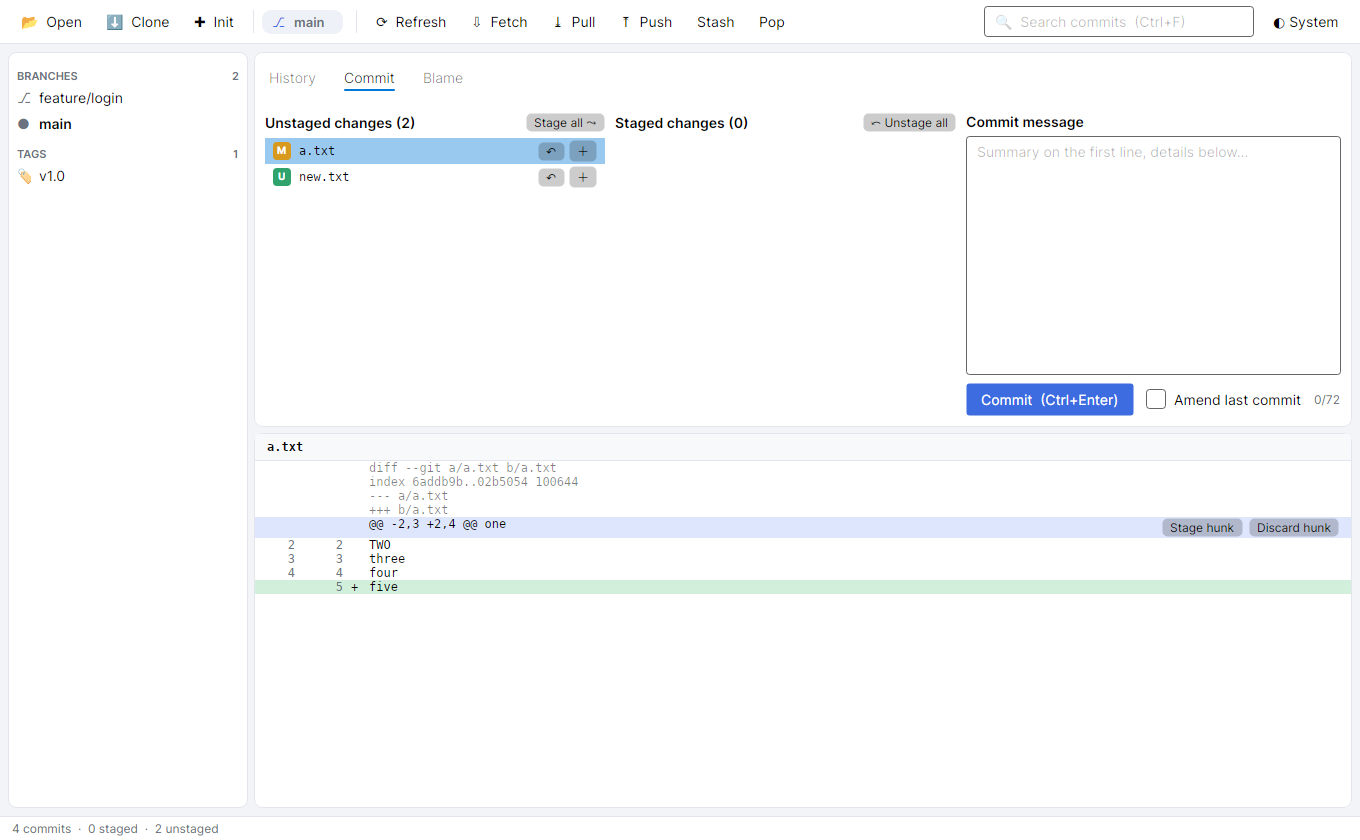
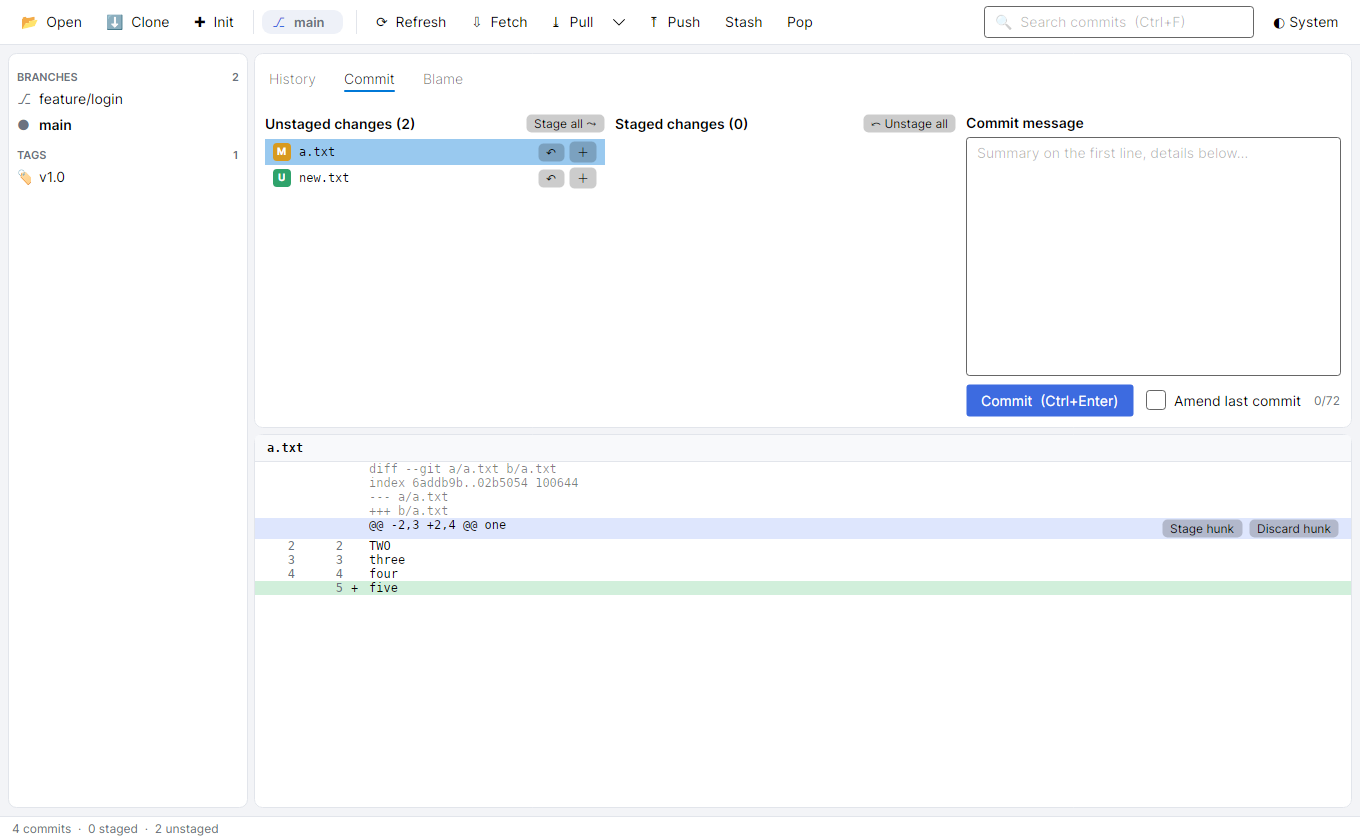
feat(app): merge modes, rebase onto a branch and pull (rebase) from the UI
Sidebar context menu gains no-ff, squash and rebase (with confirmation); Pull becomes a split button. HOWTO and screenshots updated.

diff --git a/tests/GitCross.App.UiTests/WindowRenderTests.cs b/tests/GitCross.App.UiTests/WindowRenderTests.cs
@@ -248,6 +248,52 @@ public class WindowRenderTests
         Assert.Contains(vm.Items, i => i.Subject.StartsWith("Merge"));
     }
 
+    private static string NewRepo()
+    {
+        var repo = Path.Combine(Path.GetTempPath(), "gxc-ui-" + Guid.NewGuid().ToString("N")[..8]);
+        Directory.CreateDirectory(repo);
+        Git(repo, "init -q -b main"); Git(repo, "config user.name Ada"); Git(repo, "config user.email a@x");
+        File.WriteAllText(Path.Combine(repo, "f.txt"), "base\n"); Git(repo, "add ."); Git(repo, "commit -qm base");
+        return repo;
+    }
+
+    [AvaloniaFact]
+    public async Task Squash_merge_leaves_changes_staged_and_opens_commit_tab()
+    {
+        var repo = NewRepo();
+        Git(repo, "checkout -qb topic"); File.WriteAllText(Path.Combine(repo, "t.txt"), "t"); Git(repo, "add ."); Git(repo, "commit -qm topic");
+        Git(repo, "checkout -q main");
+        var vm = new MainViewModel(new SettingsStore(Path.Combine(repo, "..", "gxc-s-" + Guid.NewGuid() + ".json")));
+        await vm.OpenAsync(repo);
+
+        await vm.MergeWithAsync(vm.Sidebar.First(e => e.Ref?.Name == "topic").Ref!, Core.Git.MergeMode.Squash);
+        Assert.Equal(1, vm.SelectedTab);
+        Assert.Contains(vm.Staged, f => f.Path == "t.txt");
+        Assert.Contains("squash", vm.StatusText, StringComparison.OrdinalIgnoreCase);
+        Assert.False(vm.HasOperation);
+    }
+
+    [AvaloniaFact]
+    public async Task Rebase_conflict_shows_rebase_banner_then_continues()
+    {
+        var repo = NewRepo();
+        Git(repo, "checkout -qb topic"); File.WriteAllText(Path.Combine(repo, "f.txt"), "topic\n"); Git(repo, "commit -qam topic");
+        Git(repo, "checkout -q main"); File.WriteAllText(Path.Combine(repo, "f.txt"), "main\n"); Git(repo, "commit -qam main");
+        Git(repo, "checkout -q topic");
+        var vm = new MainViewModel(new SettingsStore(Path.Combine(repo, "..", "gxc-s-" + Guid.NewGuid() + ".json")));
+        await vm.OpenAsync(repo);
+
+        await vm.RebaseOntoAsync(vm.Sidebar.First(e => e.Ref?.Name == "main").Ref!);
+        Assert.Equal(Core.Models.GitOperation.Rebase, vm.Operation);
+        Assert.Contains("Rebase", vm.OperationText);
+        Assert.Equal(1, vm.ConflictCount);
+
+        await vm.ResolveAsync(vm.Unstaged.Single(), ours: false);
+        await vm.ContinueOperationCommand.ExecuteAsync(null);
+        Assert.False(vm.HasOperation);
+        Assert.Equal("topic", vm.Items.First(i => !i.IsWorkingDir).Subject);
+    }
+
     private static void Git(string dir, string args)
     {
         var psi = new ProcessStartInfo("git", args) { WorkingDirectory = dir, RedirectStandardError = true, RedirectStandardOutput = true };

diff --git a/src/GitCross.App/Views/MainWindow.axaml.cs b/src/GitCross.App/Views/MainWindow.axaml.cs
@@ -93,7 +93,29 @@ public partial class MainWindow : Window
 
     private void OnSidebarCheckout(object? sender, RoutedEventArgs e) => _vm.CheckoutRefCommand.Execute(RefOf(sender));
 
-    private void OnSidebarMerge(object? sender, RoutedEventArgs e) => _vm.MergeRefCommand.Execute(RefOf(sender));
+    private async void OnSidebarMerge(object? sender, RoutedEventArgs e)
+    {
+        if (RefOf(sender) is { } r) { await _vm.MergeWithAsync(r, MergeMode.Default); }
+    }
+
+    private async void OnSidebarMergeNoFf(object? sender, RoutedEventArgs e)
+    {
+        if (RefOf(sender) is { } r) { await _vm.MergeWithAsync(r, MergeMode.NoFastForward); }
+    }
+
+    private async void OnSidebarMergeSquash(object? sender, RoutedEventArgs e)
+    {
+        if (RefOf(sender) is { } r) { await _vm.MergeWithAsync(r, MergeMode.Squash); }
+    }
+
+    private async void OnSidebarRebase(object? sender, RoutedEventArgs e)
+    {
+        if (RefOf(sender) is { } r
+            && await PromptWindow.AskAsync(this, "Rebase", $"Rebase '{_vm.CurrentBranch}' onto '{r.Name}'? This rewrites the commits of the current branch.", "Rebase") is not null)
+        {
+            await _vm.RebaseOntoAsync(r);
+        }
+    }
 
     private void OnSidebarDelete(object? sender, RoutedEventArgs e) => _vm.DeleteBranchCommand.Execute(RefOf(sender));
 

diff --git a/src/GitCross.App/ViewModels/MainViewModel.cs b/src/GitCross.App/ViewModels/MainViewModel.cs
@@ -691,6 +691,22 @@ public partial class MainViewModel : ObservableObject
 
     [RelayCommand] private Task FetchAsync() => Mutate(() => _repo!.FetchAsync(), true);
 
+    [RelayCommand] private Task PullRebaseAsync() => Mutate(() => _repo!.PullAsync(rebase: true), true);
+
+    public async Task MergeWithAsync(GitRef r, MergeMode mode)
+    {
+        await Mutate(() => _repo!.MergeAsync(r.Name, mode), r);
+        if (mode == MergeMode.Squash && !IsError && Staged.Count > 0)
+        {
+            SelectedTab = 1;
+            StatusText = $"Squash merge of {r.Name} is staged. Write a commit message and commit.";
+        }
+    }
+
+    public Task RebaseOntoAsync(GitRef r) => Mutate(() => _repo!.RebaseAsync(r.Name), r);
+
+    public string CurrentBranch => BranchText;
+
     [RelayCommand] private Task PullAsync() => Mutate(() => _repo!.PullAsync(), true);
 
     [RelayCommand] private Task PushAsync() => Mutate(() => _repo!.PushAsync(), true);

diff --git a/docs/HOWTO.md b/docs/HOWTO.md
@@ -92,7 +92,7 @@ Drag the thin separators between areas to resize them. The window refreshes itse
 | **Branch pill** | Shows the current branch (or "detached HEAD") and, when the branch tracks a remote, `↑ahead ↓behind` commit counts. |
 | **Refresh** (**F5**) | Reload history, refs and working tree. |
 | **Fetch** | `git fetch --all --prune`. |
-| **Pull** | `git pull` (merge). |
+| **Pull** | `git pull` (merge). Click the **▾** arrow next to it for **Pull (merge)** or **Pull (rebase)**, which replays your local commits on top of the fetched ones instead of creating a merge commit. |
 | **Push** | `git push`. |
 | **Stash** | Stash all changes including untracked files. Does nothing when the working tree is clean. |
 | **Pop** | Apply and remove the newest stash. |
@@ -117,7 +117,7 @@ Interactions:
 * **Single click** – selects the ref and scrolls/selects the matching commit in History. Nothing is changed in your repository by a single click.
 * **Double-click** a branch or tag – checks it out. Double-clicking a remote branch such as `origin/feature` creates a local tracking branch `feature` (git's standard behavior).
 * **Right-click** – context menu:
-  * Branches/remotes/tags: **Checkout**, **Merge into current branch**, **Delete branch** (uses the safe `git branch -d`; unmerged or current branches are refused with a message).
+  * Branches/remotes/tags: **Checkout**, the merge and rebase entries described in [section 10](#10-branches-and-tags), and **Delete branch** (uses the safe `git branch -d`; unmerged or current branches are refused with a message).
   * Stashes: **Apply stash (keep)**, **Pop stash (apply and drop)**, **Drop stash** (asks for confirmation).
 
 ## 6. History and the commit graph
@@ -223,7 +223,10 @@ If there is nothing staged or the message is empty, the status bar says so and n
 |---|---|
 | Create a branch at a commit and switch to it | Select the commit → type a name → **Branch here**. |
 | Switch branch | Double-click it in the sidebar, or right-click → **Checkout**. |
-| Merge a branch into the current one | Right-click the branch → **Merge into current branch**. If it conflicts, see [section 15](#15-resolving-conflicts). |
+| Merge a branch into the current one | Right-click the branch → **Merge into current branch**. Git fast-forwards when it can, otherwise creates a merge commit. If it conflicts, see [section 15](#15-resolving-conflicts). |
+| Always record a merge commit | **Merge (always create merge commit)** — `--no-ff`; keeps the branch visible in the graph even when a fast-forward was possible. |
+| Combine a branch into one commit | **Merge (squash into staged changes)** — brings the branch's changes into your index without committing and opens the **Commit** tab; write a message and commit. No merge relationship is recorded. |
+| Put your branch on top of another | **Rebase current branch onto this** — replays the *current* branch's commits after the selected branch, giving a linear history. Asks for confirmation because it rewrites the current branch's commits (avoid on branches you already pushed and others use). Conflicts show the banner of section 15; **Continue** moves to the next commit. |
 | Delete a branch | Right-click → **Delete branch** (safe delete only; the current branch cannot be deleted). |
 | Create a tag | Right-click a commit → **Create tag here…**. |
 | Check out a tag | Double-click it (detached HEAD). |
@@ -233,7 +236,7 @@ If a checkout would overwrite uncommitted changes, git refuses and the message a
 ## 11. Fetch, pull and push
 
 * **Fetch** downloads new commits and prunes deleted remote branches without changing your files.
-* **Pull** fetches and merges the upstream into the current branch.
+* **Pull** fetches and merges the upstream into the current branch. Use the **▾** menu → **Pull (rebase)** to rebase your local commits onto the upstream instead.
 * **Push** uploads the current branch.
 
 The branch pill's `↑N ↓M` shows how many commits you are ahead/behind the upstream. Operations never prompt for passwords in the terminal; configure SSH keys or a git credential helper. If a pull conflicts, the conflict banner appears (section 15). Errors from git (rejected push, no upstream, authentication) are shown in the status bar.
@@ -289,7 +292,7 @@ When a merge, pull, cherry-pick, revert or rebase stops because of conflicting c
 
 1. A yellow banner appears: **"Merge in progress — 1 conflicted file to resolve"**, with **Continue** and **Abort**. The status bar explains the next step.
 2. The **Commit** tab opens. Conflicted files have a pink **!** badge in *Unstaged changes*.
-3. Select a conflicted file: the lower panel shows the file with its conflict markers. **Red = ours** (your current branch), **green = theirs** (the incoming change); blue lines are the `<<<<<<<`, `=======`, `>>>>>>>` markers.
+3. Select a conflicted file: the lower panel shows the file with its conflict markers. **Red = ours** (your current branch), **green = theirs** (the incoming change). *During a rebase git swaps the two: "ours" is the branch you are rebasing onto and "theirs" is your own commit being replayed.*; blue lines are the `<<<<<<<`, `=======`, `>>>>>>>` markers.
 4. Resolve each file, either:
    * right-click → **Accept ours (current branch)** or **Accept theirs (incoming)** – takes that whole version and stages it; or
    * right-click → **Open in default editor**, edit the file to the result you want (remove the markers), save, then click **＋** to mark it resolved.
@@ -337,6 +340,7 @@ The app asks before anything that can lose work:
 * Hard reset
 * Dropping a stash
 * Aborting a merge/cherry-pick/revert/rebase
+* Starting a rebase
 
 Branch deletion is always the *safe* kind (`-d`); git itself refuses to delete unmerged branches. Untracked files are never deleted by a single click.
 
@@ -353,7 +357,7 @@ Branch deletion is always the *safe* kind (`-d`); git itself refuses to delete u
 
 ## 21. Known limitations
 
-* No rebase starter, merge options (no-fast-forward/squash) or interactive rebase yet — an in-progress rebase started elsewhere *is* recognized and can be continued or aborted.
+* Interactive rebase (reordering/squashing/editing commits in a todo list) is not available; plain rebase onto a branch is. A rebase started elsewhere is recognized and can be continued or aborted.
 * Conflicts are resolved per file (take a side, or edit in your editor); there is no built-in three-way merge editor.
 * Staging works per file and per hunk; line-by-line selection inside a hunk is not available.
 * Diffs are plain (no syntax highlighting or side-by-side view yet).

diff --git a/docs/PORTING.md b/docs/PORTING.md
@@ -16,8 +16,8 @@
 | Settings dialog | Todo | |
 | Clone / init | Done | clone dialog, init via folder picker |
 | Cherry-pick / revert / reset / tag (commit context menu) | Done | hard reset asks for confirmation |
-| Merge (from sidebar) | Done | no merge dialog/options |
-| Rebase | Todo | |
+| Merge (default, no-ff, squash) | Done | sidebar context menu |
+| Rebase onto branch, pull --rebase | Done | interactive rebase still Todo |
 | Conflict resolution | Done | banner, marker view, accept ours/theirs, continue/abort for merge, cherry-pick, revert, rebase; no 3-way merge editor yet |
 | Blame / file history | Done | right-click a file: blame (at commit or work tree), file history with renames; double-click blame line jumps to commit |
 | Submodules | Todo | |
